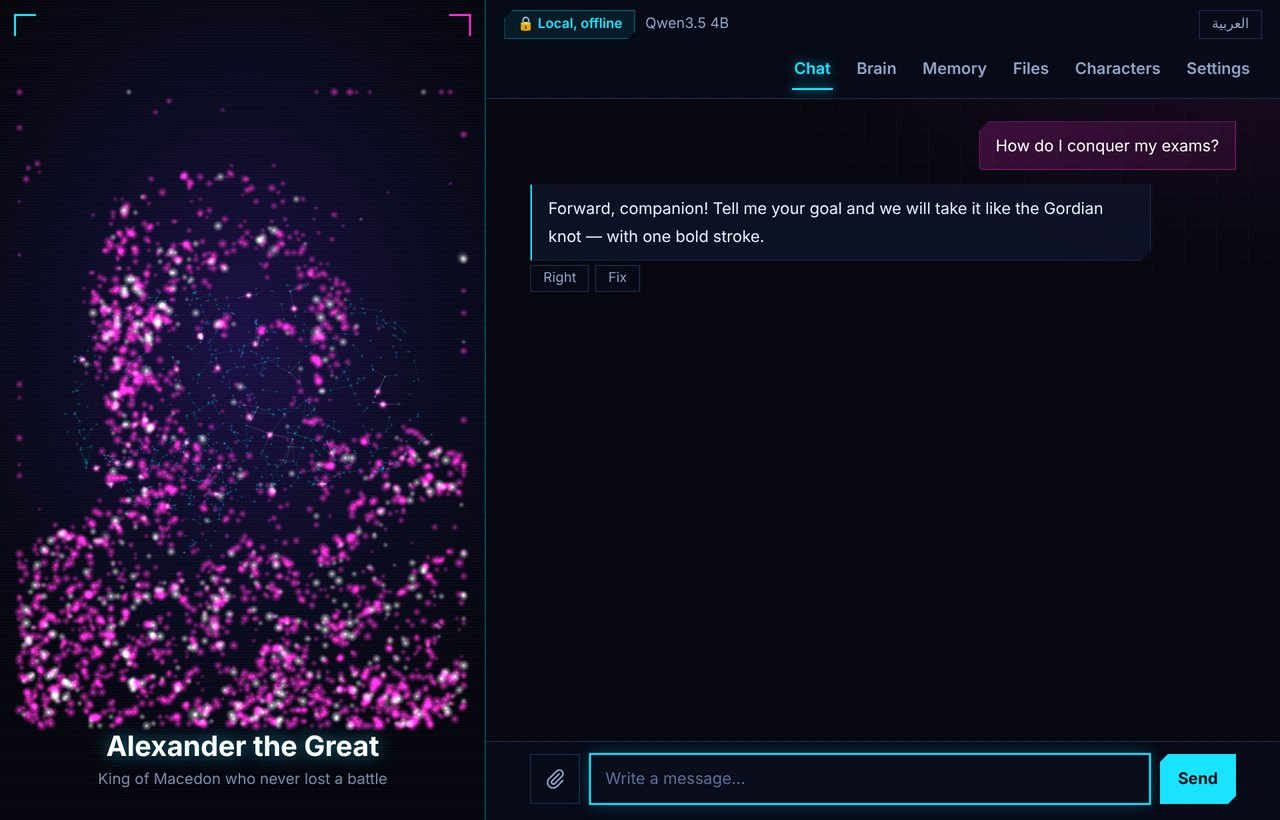
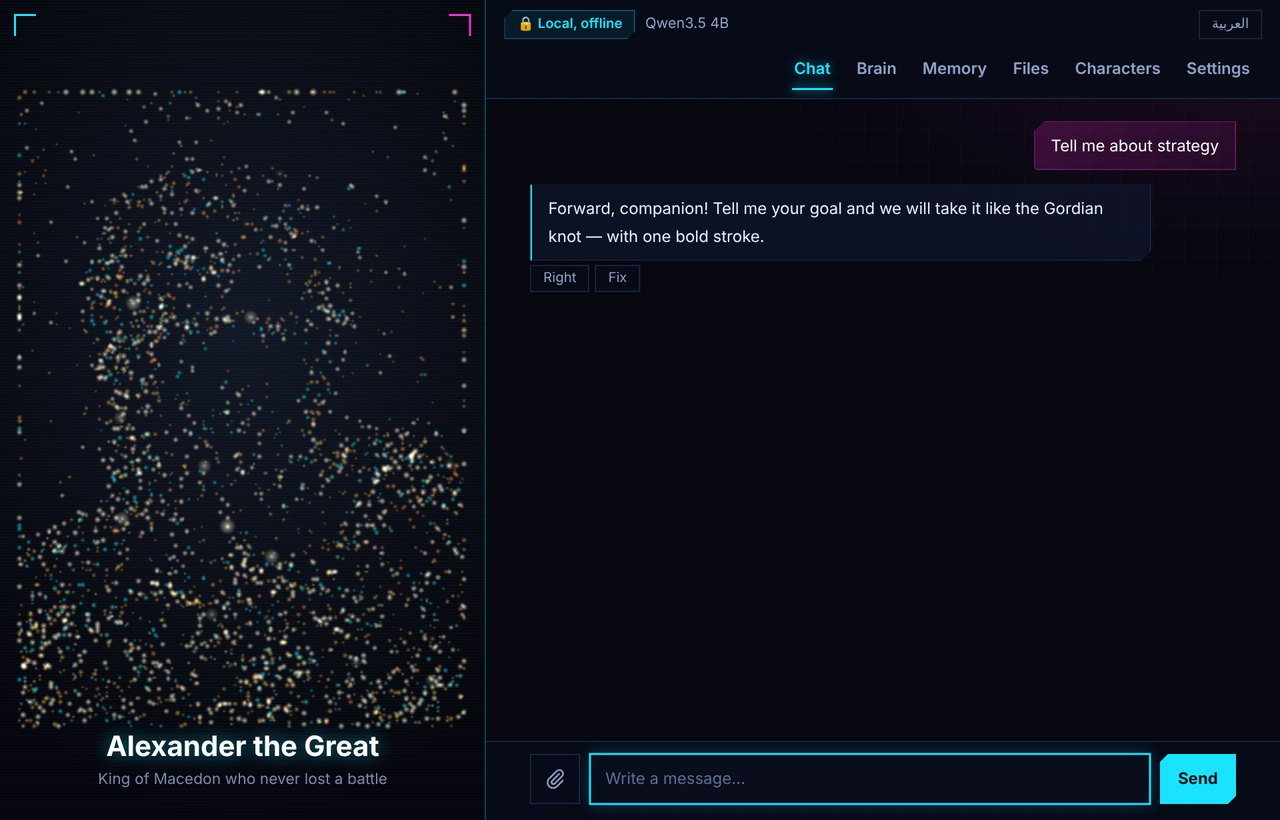
Nicer character face: multi-colour points, no lilac, neutral dark stage
Alexander's portrait now draws from a weighted multi-colour palette (gold, cyan,
orange, mint, warm white) instead of the mood's single hue, with crisper points,
and the stage behind a character face is a neutral dark instead of purple. Faces
can carry their own palette in the face JSON. Fixed the brain showing through
behind a face (CSS specificity).

diff --git a/web/portrait.js b/web/portrait.js
@@ -35,12 +35,23 @@ export function createPortrait(canvas, data, { seed = 7 } = {}) {
   if (!ctx) return null;
   const reduced = matchMedia("(prefers-reduced-motion: reduce)").matches;
   const aspect = data.aspect || 1.4;
-  const pts = data.points.map(([x, y, b]) => ({ x, y, b, ph: Math.random() * 6.28 }));
+  // a face can bring its own multi-colour palette (weighted); else it uses the mood colours
+  const palette = (data.palette && Array.isArray(data.palette.colors) && data.palette.colors.length) ? data.palette : null;
+  const weights = palette && palette.weights && palette.weights.length === palette.colors.length
+    ? palette.colors.map((_, i) => palette.weights.slice(0, i + 1).reduce((a, v) => a + v, 0)) : null;
+  const pickColor = () => {
+    if (!palette) return 0;
+    if (!weights) return (Math.random() * palette.colors.length) | 0;
+    const r = Math.random() * weights[weights.length - 1];
+    return weights.findIndex((w) => r <= w);
+  };
+  const pts = data.points.map(([x, y, b]) => ({ x, y, b, ph: Math.random() * 6.28, ci: pickColor() }));
+  const colorSprites = palette ? palette.colors.map((c) => sprite(c)) : null;
   const order = pts.map((_, i) => i);
   for (let i = order.length - 1; i > 0; i--) { const j = (Math.random() * (i + 1)) | 0; [order[i], order[j]] = [order[j], order[i]]; }
 
   let mood = "neutral", talking = false, cur = MOODS.neutral, mature = false;
-  let baseCol = MOODS.neutral.base.slice(), hotCol = MOODS.neutral.hot.slice();
+  let baseCol = MOODS.neutral.base.slice(), hotCol = (palette ? [255, 244, 210] : MOODS.neutral.hot.slice());
   let baseSprite = sprite(baseCol), hotSprite = sprite(hotCol);
   let growth = 1, time = 0, dim = 1;
   const sparks = [];
@@ -66,12 +77,13 @@ export function createPortrait(canvas, data, { seed = 7 } = {}) {
 
   const tick = (step) => {
     time += step;
-    // colours ease toward the mood (or gold when mature)
-    const wantBase = mature ? MATURE : cur.base, wantHot = mature ? [255, 240, 180] : cur.hot;
     const k = 1 - Math.exp(-step * 3);
-    const nb = lerp(baseCol, wantBase, k), nh = lerp(hotCol, wantHot, k);
-    if (nb.some((v, i) => Math.abs(v - baseCol[i]) > 1) ) { baseCol = nb; baseSprite = sprite(baseCol); }
-    if (nh.some((v, i) => Math.abs(v - hotCol[i]) > 1) ) { hotCol = nh; hotSprite = sprite(hotCol); }
+    if (!palette) {                               // no fixed palette: ease colours toward the mood (or gold when mature)
+      const wantBase = mature ? MATURE : cur.base, wantHot = mature ? [255, 240, 180] : cur.hot;
+      const nb = lerp(baseCol, wantBase, k), nh = lerp(hotCol, wantHot, k);
+      if (nb.some((v, i) => Math.abs(v - baseCol[i]) > 1)) { baseCol = nb; baseSprite = sprite(baseCol); }
+      if (nh.some((v, i) => Math.abs(v - hotCol[i]) > 1)) { hotCol = nh; hotSprite = sprite(hotCol); }
+    }
     dim += (((mood === "sleeping") ? 0.5 : 1) - dim) * k;
     // sparks
     const rate = reduced ? 0 : (talking ? cur.rate * 2 : cur.rate);
@@ -92,9 +104,10 @@ export function createPortrait(canvas, data, { seed = 7 } = {}) {
     for (let k = 0; k < n; k++) {
       const p = pts[order[k]];
       const t = 0.8 + tw * Math.sin(time * 2.2 + p.ph);
-      const sz = (2.4 + 3.6 * p.b) * t * breathe;
-      const useHot = ((p.ph * 97) % 1) < 0.18;                 // a few points carry the hot colour
-      const img = useHot ? hotSprite : baseSprite;
+      const sz = (1.7 + 2.7 * p.b) * t * breathe;
+      const twinklePeak = t > (0.8 + tw * 0.6);
+      const img = palette ? (twinklePeak ? hotSprite : colorSprites[p.ci])
+                          : (((p.ph * 97) % 1) < 0.18 ? hotSprite : baseSprite);
       const a = Math.min(1, (0.35 + 0.6 * p.b) * t * dim);
       ctx.globalAlpha = a;
       const x = ox + p.x * scale, y = oy + p.y * scale * aspect;

diff --git a/web/index.html b/web/index.html
@@ -111,7 +111,7 @@ ul.plain li span{overflow-wrap:anywhere}
 /* the brain: the default face of the assistant */
 #brain3d{position:absolute;inset:0;width:100%;height:100%;display:none;z-index:1;cursor:grab}
 #face2d{position:absolute;inset:0;width:100%;height:100%;display:none;z-index:1}
-.isface #brain3d{display:none}
+.isbrain.isface #brain3d{display:none}
 .isbrain.isface #face2d{display:block}
 #brain3d:active{cursor:grabbing}
 .isbrain #brain3d{display:block}
@@ -169,6 +169,8 @@ body{background:var(--void);color:var(--ink);
 .stage{border-inline-end:1px solid var(--cyan-dim);box-shadow:inset -1px 0 0 rgba(25,227,255,.08)}
 .isbrain .stage{background:radial-gradient(70% 55% at 50% 42%,#1c1046 0%,#0b0b22 55%,#05060d 100%)}
 .isbrain .stage::before{background:radial-gradient(70% 55% at 50% 42%,#0e0b2e 0%,#04040b 75%)}
+.isbrain.isface .stage{background:radial-gradient(75% 60% at 50% 40%,#111726 0%,#0a0d16 58%,#05060d 100%)}
+.isbrain.isface .stage::before{background:radial-gradient(75% 60% at 50% 40%,#0c1120 0%,#04050a 78%)}
 .isbrain .stage::after{content:"";position:absolute;inset:0;z-index:1;pointer-events:none;
   background:repeating-linear-gradient(rgba(255,255,255,.025) 0 1px,transparent 1px 3px),
     linear-gradient(var(--cyan),var(--cyan)) top 14px left 14px/22px 2px no-repeat,linear-gradient(var(--cyan),var(--cyan)) top 14px left 14px/2px 22px no-repeat,
